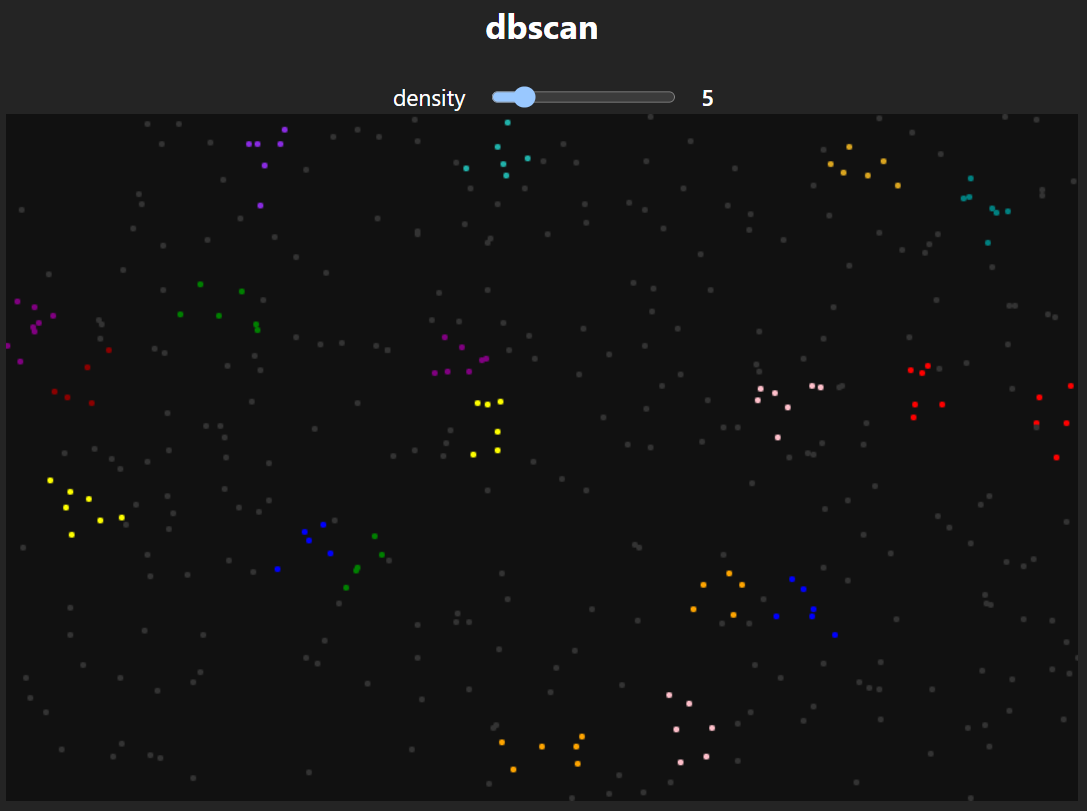
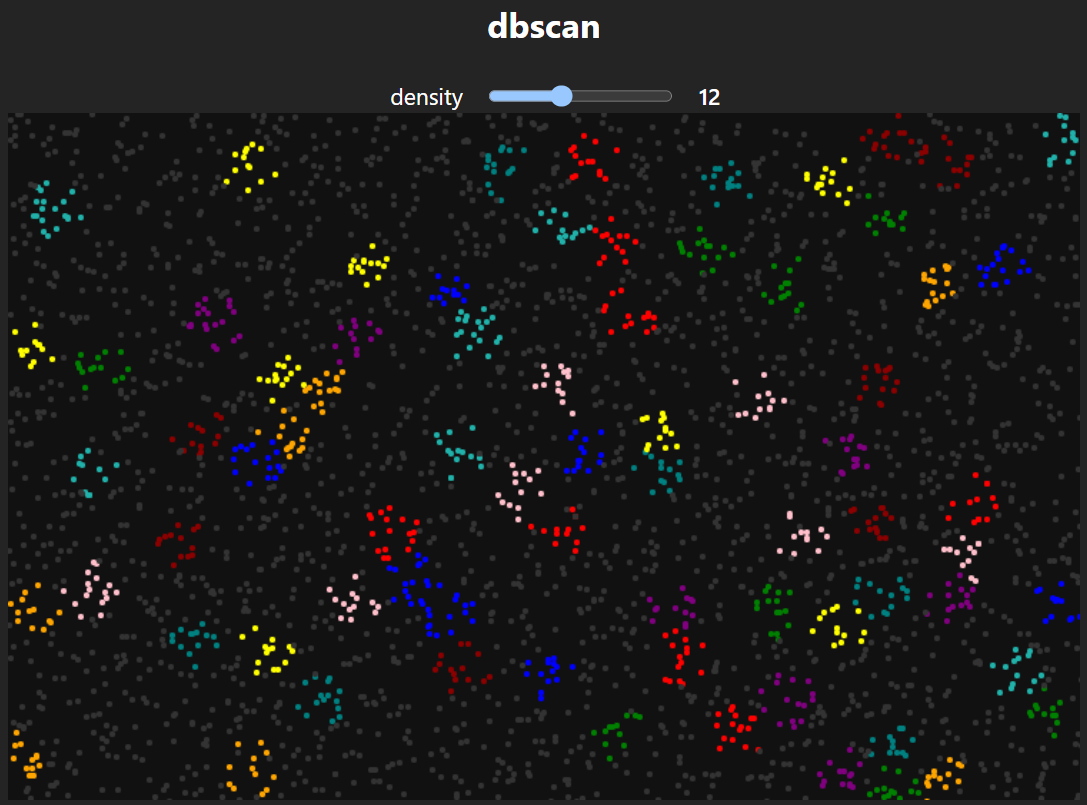
params change

diff --git a/classes/DBSCAN.js b/classes/DBSCAN.js
@@ -9,23 +9,23 @@ export class DBSCAN {
     this.points = points;
 
     // расчет растояний для всех точек
-    for (let i = 0; i < this.points.length; i++) {
-      for (let j = i; j < this.points.length; j++) {
-        const p1 = points[i];
-        const p2 = points[j];
+    // for (let i = 0; i < this.points.length; i++) {
+    //   for (let j = i; j < this.points.length; j++) {
+    //     const p1 = points[i];
+    //     const p2 = points[j];
 
-        if (this.distance[p1.id + ':' + p2.id]) continue;
+    //     if (this.distance[p1.id + ':' + p2.id]) continue;
 
-        if (i === j) {
-          this.distance[p1.id + ':' + p2.id] = Infinity;
-          continue;
-        }
+    //     if (i === j) {
+    //       this.distance[p1.id + ':' + p2.id] = Infinity;
+    //       continue;
+    //     }
 
-        const dist = this._distans(p1.x, p1.y, p2.x, p2.y);
-        this.distance[p1.id + ':' + p2.id] = dist;
-        this.distance[p2.id + ':' + p1.id] = dist;
-      }
-    }
+    //     const dist = this._distans(p1.x, p1.y, p2.x, p2.y);
+    //     this.distance[p1.id + ':' + p2.id] = dist;
+    //     this.distance[p2.id + ':' + p1.id] = dist;
+    //   }
+    // }
   }
 
   _distans(x1, y1, x2, y2) {

diff --git a/main.js b/main.js
@@ -1,7 +1,8 @@
 import { Canvas } from './classes/Canvas';
 import { DBSCAN } from './classes/DBSCAN';
 import { kMeans } from './k-means/k-meas';
-import { points } from './points';
+// import { points } from './points';
+import generatePoints from './utils/generatePoints';
 import './style.css';
 
 const colors = [
@@ -14,12 +15,12 @@ const colors = [
   'pink',
   'lightseagreen',
   'teal',
-  'goldenrod',
-  'blueviolet',
   'darkred',
 ];
 
 const app = document.querySelector('#app');
+
+const points = generatePoints(3000, 750, 480);
 
 /**
  *
@@ -58,7 +59,7 @@ function drawDBSCAN(eps, dencity) {
 
 const db_c = +dbscan_range.value;
 db_num.innerText = db_c;
-const range = 30;
+const range = 20;
 drawDBSCAN(range, db_c);
 
 dbscan_range.addEventListener('change', (e) => {
